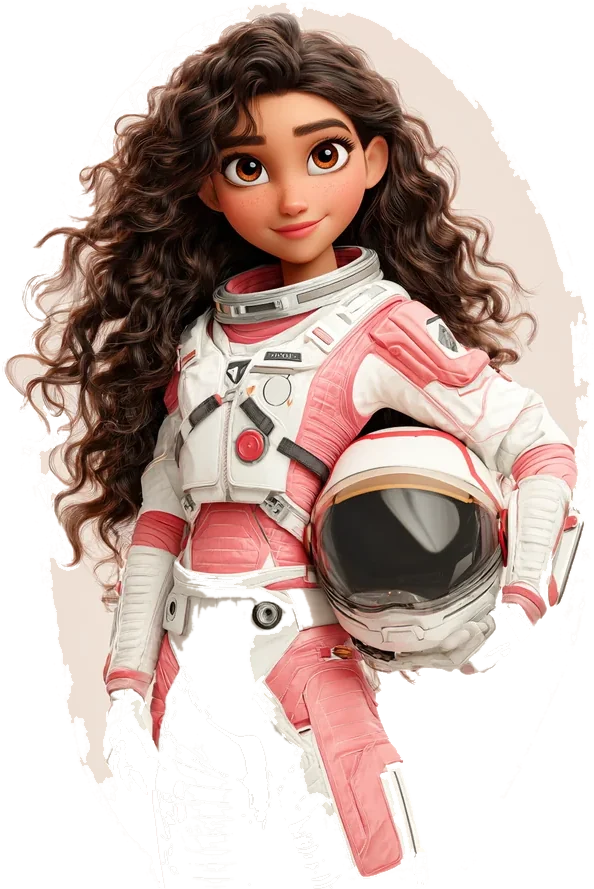
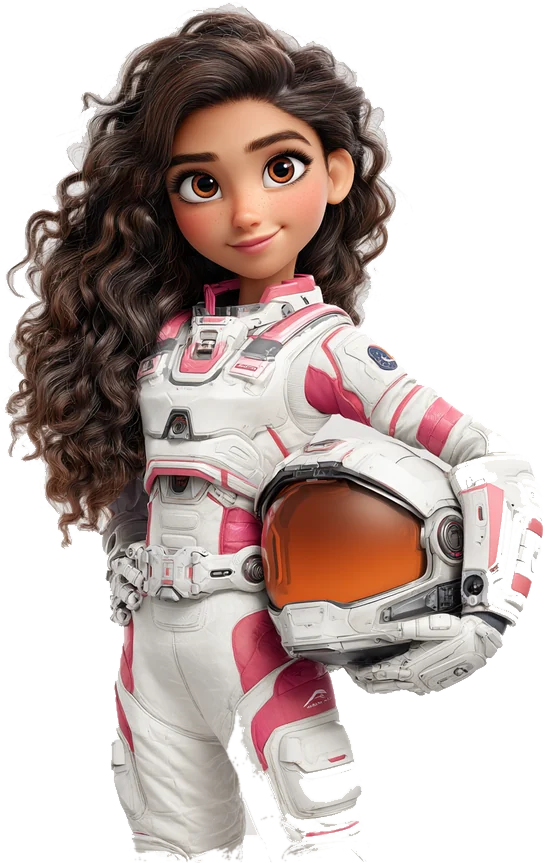
Faixa roxa, botoes translucidos, alto-falantes na Tamanho e Viagem arejada
A FAIXA ROXA E A ROLAGEM: a causa era a area segura do iPhone. No navegador
aqui ela vale zero; no aparelho dele sao ~59px em cima e 34 embaixo, e isso
empurrava o conteudo pra fora. Duas correcoes:
- A camada de fundo virou position:fixed — cobre a janela inteira, entao
  nao sobra mais faixa da cor do body quando a barra do navegador entra e sai
- Cartoes da home e cartao de parabens agora encolhem de verdade
  (min-height:0 nos itens da grade e overflow contido). Testado simulando
  a area segura: nenhuma das 10 telas rola

BOTOES DE MODO TRANSLUCIDOS: fundo branco a 62% com desfoque atras. O
cenario aparece e o texto continua legivel (ganhou sombra branca propria).

ALTO-FALANTES NA TAMANHO DE VERDADE: cada planeta fala nome e comparacao —
"Mercurio. Ele cabe 3 vezes dentro da Terra."

A VIAGEM DEIXOU DE AMONTOAR: escala de 0,78 pra 1,35 px por milhao de km,
nomes alternados em cima e embaixo, e o tempo encurtado pra "2 meses". Os
quatro de dentro continuam perto — porque estao mesmo — mas agora legiveis.

ASTRONAUTA COM FUNDO: a variacao usada tinha fundo bege que ficava preso
atras do capacete, e o corte por cor comia o traje branco dela. Medi as 4
variacoes e troquei pela 12, que tem fundo neutro e claro. Limiar baixado
de 52 pra 34 nas tres crescidas — recorte limpo sem comer roupa clara.

Astronauta virou o icone do cartao Sistema Solar.

diff --git a/css/style.css b/css/style.css
@@ -63,7 +63,9 @@ button{font:inherit;color:inherit;border:0;background:none;cursor:pointer;touch-
    Duas fotos empilhadas pra trocar com fade, e um véu por cima
    que garante que texto e botão continuem legíveis.
    =========================================================== */
-.fundo{position:absolute;inset:0;z-index:0;overflow:hidden;pointer-events:none}
+/* fixo na janela, não dentro do app: assim nunca sobra faixa da cor do body
+   quando a barra do navegador entra e sai no iPhone */
+.fundo{position:fixed;inset:0;z-index:0;overflow:hidden;pointer-events:none}
 .fundo__foto{
   position:absolute;inset:0;opacity:0;
   background-size:cover;background-position:center;
@@ -175,9 +177,9 @@ button{font:inherit;color:inherit;border:0;background:none;cursor:pointer;touch-
 .tile--words{background:linear-gradient(140deg,#5CE8BC,#12A87E 60%,#0B7A5C)}
 .tile--tic{background:linear-gradient(140deg,#FFC155,#F0761F)}
 .tile__art{
-  flex:1;min-height:0;width:100%;display:grid;place-items:center;padding:0;
+  flex:1;min-height:0;width:100%;display:grid;place-items:center;padding:0;overflow:hidden;
 }
-.tile__foto{max-height:100%;max-width:88%;width:auto;height:auto;object-fit:contain;
+.tile__foto{max-height:100%;max-width:86%;width:auto;height:auto;min-height:0;object-fit:contain;
   filter:drop-shadow(0 6px 14px rgba(0,0,0,.28))}
 
 
@@ -221,7 +223,7 @@ button{font:inherit;color:inherit;border:0;background:none;cursor:pointer;touch-
 }
 
 .star-linha{display:flex;align-items:center;gap:10px;margin:16px 0 18px}
-.tile-wrap,.mode-wrap{position:relative;display:flex}
+.tile-wrap,.mode-wrap{position:relative;display:flex;min-height:0;min-width:0}
 .tile-wrap>.tile,.mode-wrap>.mode{flex:1}
 
 /* ===========================================================
@@ -243,8 +245,11 @@ button{font:inherit;color:inherit;border:0;background:none;cursor:pointer;touch-
 .mode{
   display:flex;flex-direction:column;align-items:flex-start;gap:4px;
   min-height:132px;padding:20px 88px 20px 20px;border-radius:var(--radius);text-align:left;
-  background:#fff;color:var(--ink);box-shadow:var(--shadow);
+  background:rgba(255,255,255,.62);color:var(--ink);
+  border:1px solid rgba(255,255,255,.75);backdrop-filter:blur(9px) saturate(1.2);
+  box-shadow:0 8px 0 rgba(43,27,84,.10),0 14px 28px rgba(43,27,84,.14);
 }
+.mode strong,.mode small{text-shadow:0 1px 6px rgba(255,255,255,.95)}
 .screen--dark .mode{background:rgba(255,255,255,.10);color:#fff;box-shadow:0 8px 24px rgba(0,0,0,.35);backdrop-filter:blur(8px);border:1px solid rgba(255,255,255,.16)}
 .mode:active{transform:translateY(5px)}
 .mode__emoji{font-size:48px;line-height:1}
@@ -462,15 +467,16 @@ button{font:inherit;color:inherit;border:0;background:none;cursor:pointer;touch-
    =========================================================== */
 .screen--result{align-items:center;justify-content:center}
 .result-card{
-  width:100%;background:#fff;border-radius:34px;padding:28px 22px;text-align:center;
-  box-shadow:var(--shadow);display:flex;flex-direction:column;gap:12px;align-items:center;
+  width:100%;max-height:100%;background:#fff;border-radius:34px;padding:20px 20px;text-align:center;
+  box-shadow:var(--shadow);display:flex;flex-direction:column;gap:10px;align-items:center;
+  overflow:hidden;
 }
-.result-emoji{font-size:76px;animation:pop 1.6s ease-in-out infinite}
-.result-card h2{font-size:28px;font-weight:900;letter-spacing:-.5px}
+.result-emoji{font-size:56px;line-height:1;animation:pop 1.6s ease-in-out infinite}
+.result-card h2{font-size:25px;font-weight:900;letter-spacing:-.5px}
 .result-score{font-size:18px;color:var(--ink-soft)}
 .result-score b{color:var(--pink-dark);font-size:24px}
-.result-stars{font-size:30px;letter-spacing:4px;min-height:40px}
-#result-som{margin:2px auto 4px}
+.result-stars{font-size:26px;letter-spacing:2px;min-height:0;line-height:1}
+#result-som{margin:0 auto}
 .result-stars span{display:inline-block;animation:zoomIn .4s cubic-bezier(.2,.9,.3,1.6) backwards}
 .btn-big{
   width:100%;min-height:var(--tap);border-radius:22px;font-size:22px;font-weight:900;
@@ -620,11 +626,11 @@ button{font:inherit;color:inherit;border:0;background:none;cursor:pointer;touch-
 }
 
 .result-lara{
-  width:auto;height:min(30dvh,230px);object-fit:contain;margin-bottom:-14px;
+  width:auto;height:min(24dvh,190px);min-height:0;object-fit:contain;margin-bottom:-10px;
   filter:drop-shadow(0 12px 24px rgba(43,27,84,.30));
   animation:float 3.4s ease-in-out infinite;
 }
-.result-card.is-perfeito .result-lara{height:min(34dvh,260px)}
+.result-card.is-perfeito .result-lara{height:min(27dvh,215px)}
 .result-card.is-perfeito .result-emoji{display:none}
 
 
@@ -651,6 +657,7 @@ button{font:inherit;color:inherit;border:0;background:none;cursor:pointer;touch-
    planetas cai na mesma linha e a comparação de tamanho fica honesta */
 .tam-item__bola{flex:1;min-height:0;display:grid;place-items:center}
 .tam-item__bola img{display:block;height:auto;filter:drop-shadow(0 8px 22px rgba(0,0,0,.5))}
+.tam-item__linha{display:flex;align-items:center;gap:7px}
 .tam-item__nome{
   font-size:14px;font-weight:900;letter-spacing:-.2px;white-space:nowrap;
   background:rgba(13,18,52,.82);border:1px solid rgba(255,255,255,.16);
@@ -694,15 +701,21 @@ button{font:inherit;color:inherit;border:0;background:none;cursor:pointer;touch-
 }
 .viagem-parada{
   position:absolute;top:50%;transform:translate(-50%,-50%);
-  display:flex;flex-direction:column;align-items:center;gap:8px;
+  display:flex;flex-direction:column;align-items:center;gap:6px;
 }
+/* rótulo alternado: os planetas de dentro estão perto demais pra
+   caber tudo numa linha só de nomes */
+.viagem-parada--baixo{flex-direction:column-reverse}
+.viagem-parada--baixo .viagem-parada__tempo{order:-1}
 .viagem-parada img{display:block;width:auto;filter:drop-shadow(0 8px 20px rgba(0,0,0,.55))}
 .viagem-parada__nome{
-  font-size:14px;font-weight:900;white-space:nowrap;
-  background:rgba(13,18,52,.86);border:1px solid rgba(255,255,255,.18);
-  padding:5px 13px;border-radius:999px;
+  font-size:13px;font-weight:900;white-space:nowrap;
+  background:rgba(13,18,52,.9);border:1px solid rgba(255,255,255,.18);
+  padding:4px 10px;border-radius:999px;
 }
-.viagem-parada__tempo{font-size:11px;opacity:.85;white-space:nowrap;text-shadow:0 2px 6px rgba(0,0,0,.9)}
+.viagem-parada__tempo{font-size:11px;font-weight:800;opacity:.9;white-space:nowrap;
+  background:rgba(13,18,52,.72);padding:2px 8px;border-radius:999px;
+  text-shadow:0 2px 6px rgba(0,0,0,.9)}
 .viagem-sol{
   position:absolute;top:50%;left:0;transform:translate(-58%,-50%);
   width:190px;height:190px;border-radius:50%;
@@ -744,7 +757,7 @@ button{font:inherit;color:inherit;border:0;background:none;cursor:pointer;touch-
   filter:drop-shadow(0 2px 4px rgba(120,80,0,.35))}
 .estrela-icone--grande{width:34px;height:34px;vertical-align:-8px}
 .bar__stars{display:inline-flex;align-items:center;gap:5px}
-.result-stars img{width:34px;height:34px;object-fit:contain;margin:0 1px;
+.result-stars img{width:27px;height:27px;object-fit:contain;margin:0 1px;
   animation:zoomIn .4s cubic-bezier(.2,.9,.3,1.6) backwards}
 .result-colecao{font-size:14px;font-weight:800;color:var(--purple);
   background:#F2ECFF;padding:8px 16px;border-radius:999px}

diff --git a/js/app.js b/js/app.js
@@ -281,14 +281,26 @@ var App = (function () {
                  : vezes <= 0.62 ? ('cabe ' + Math.round(1 / vezes) + '× na Terra')
                  : 'quase igual à Terra';
 
+      var fala = astro.nome + '. ' +
+        (vezes >= 1.6 ? ('É ' + vezes.toFixed(1).replace('.', ' vírgula ') + ' vezes maior que a Terra.')
+       : vezes <= 0.62 ? ('Ele cabe ' + Math.round(1 / vezes) + ' vezes dentro da Terra.')
+       : 'É quase do tamanho da Terra.');
+
       var item = document.createElement('div');
       item.className = 'tam-item';
       item.innerHTML =
         '<span class="tam-item__bola"><img src="img/planeta-' + id + '.webp" alt="' + astro.nome + '"' +
           ' style="width:' + quadroPx + 'px" draggable="false"></span>' +
-        '<span class="tam-item__nome">' + astro.nome + '</span>' +
+        '<span class="tam-item__linha">' +
+          '<span class="tam-item__nome">' + astro.nome + '</span>' +
+          '<button class="som-btn som-btn--nano" type="button" aria-label="Ouvir ' + astro.nome + '"' +
+            ' data-falar="' + fala + '">🔊</button>' +
+        '</span>' +
         '<span class="tam-item__medida">' + medida + '</span>';
-      item.addEventListener('click', function () { abrirFicha(astro); });
+      item.addEventListener('click', function (e) {
+        if (e.target.closest('[data-falar]')) return;
+        abrirFicha(astro);
+      });
       trilha.appendChild(item);
     });
     trilha.scrollLeft = 0;
@@ -302,25 +314,30 @@ var App = (function () {
      ========================================================= */
   function montarViagem() {
     var trilha = $('#viagem-scroll');
-    var PX_POR_MILHAO = 0.78;                 /* Netuno cai a ~3.500px, umas 9 telas */
-    var margemFinal = 150;
-    var fim = Espaco.DISTANCIAS.netuno.milhoes * PX_POR_MILHAO + margemFinal;
+    /* escala maior e um empurrão inicial: os quatro de dentro ficam juntos de
+       verdade, mas amontoados na tela viram bagunça em vez de informação */
+    var PX_POR_MILHAO = 1.35;
+    var SAIDA = 170;                          /* espaço pro Sol não engolir Mercúrio */
+    var margemFinal = 260;
+    var fim = SAIDA + Espaco.DISTANCIAS.netuno.milhoes * PX_POR_MILHAO + margemFinal;
 
     var pista = document.createElement('div');
     pista.className = 'viagem-pista';
     pista.style.width = Math.round(fim) + 'px';
     pista.innerHTML = '<div class="viagem-sol"></div><span class="viagem-sol__nome">O Sol</span>';
 
-    ['mercurio','venus','terra','marte','jupiter','saturno','urano','netuno'].forEach(function (id) {
+    ['mercurio','venus','terra','marte','jupiter','saturno','urano','netuno'].forEach(function (id, i) {
       var astro = Espaco.porId(id);
       var d = Espaco.DISTANCIAS[id];
-      var tam = id === 'jupiter' || id === 'saturno' ? 84 : (id === 'urano' || id === 'netuno' ? 70 : 58);
+      var tam = id === 'jupiter' || id === 'saturno' ? 82 : (id === 'urano' || id === 'netuno' ? 66 : 42);
       var real = Espaco.REAIS[id];
       var quadro = Math.round(tam / real.bola);
 
       var parada = document.createElement('div');
-      parada.className = 'viagem-parada';
-      parada.style.left = Math.round(d.milhoes * PX_POR_MILHAO) + 'px';
+      /* nome alternado em cima e embaixo: com os de dentro tão perto,
+         os rótulos se atropelariam numa linha só */
+      parada.className = 'viagem-parada' + (i % 2 ? ' viagem-parada--baixo' : '');
+      parada.style.left = Math.round(SAIDA + d.milhoes * PX_POR_MILHAO) + 'px';
       parada.innerHTML =
         '<img src="img/planeta-' + id + '.webp" alt="' + astro.nome + '" style="width:' + quadro + 'px" draggable="false">' +
         '<span class="viagem-parada__nome">' + astro.nome + '</span>' +
@@ -332,7 +349,7 @@ var App = (function () {
     /* a chegada: ela esperando em Netuno, no fim da viagem */
     var chegada = document.createElement('div');
     chegada.className = 'viagem-chegada';
-    chegada.style.left = Math.round(Espaco.DISTANCIAS.netuno.milhoes * PX_POR_MILHAO + 180) + 'px';
+    chegada.style.left = Math.round(SAIDA + Espaco.DISTANCIAS.netuno.milhoes * PX_POR_MILHAO + 190) + 'px';
     chegada.innerHTML = '<img src="img/lara-espaco.webp" alt="">' +
                         '<span class="viagem-parada__nome">Chegamos!</span>';
     pista.appendChild(chegada);
@@ -355,7 +372,7 @@ var App = (function () {
     var ultima = 'Saindo do Sol';
     var ordem = ['mercurio','venus','terra','marte','jupiter','saturno','urano','netuno'];
     for (var i = 0; i < ordem.length; i++) {
-      var x = Espaco.DISTANCIAS[ordem[i]].milhoes * 0.78;
+      var x = 170 + Espaco.DISTANCIAS[ordem[i]].milhoes * 1.35;
       if (frente >= x) ultima = 'Passando por ' + Espaco.porId(ordem[i]).nome;
     }
     if (andado > 0.985) ultima = 'Chegou em Netuno! 🎉';

diff --git a/js/data-espaco.js b/js/data-espaco.js
@@ -138,14 +138,14 @@ var Espaco = (function () {
   /* Distância média até o Sol, em milhões de km, e quanto tempo levaria
      num foguete rápido (40 mil km/h) indo em linha reta. */
   var DISTANCIAS = {
-    mercurio: { milhoes:  58, viagem: '2 meses de foguete' },
-    venus:    { milhoes: 108, viagem: '3 meses de foguete' },
-    terra:    { milhoes: 150, viagem: '5 meses de foguete' },
-    marte:    { milhoes: 228, viagem: '8 meses de foguete' },
-    jupiter:  { milhoes: 778, viagem: '2 anos de foguete'  },
-    saturno:  { milhoes:1430, viagem: '4 anos de foguete'  },
-    urano:    { milhoes:2870, viagem: '8 anos de foguete'  },
-    netuno:   { milhoes:4500, viagem: '13 anos de foguete' }
+    mercurio: { milhoes:  58, viagem: '2 meses' },
+    venus:    { milhoes: 108, viagem: '3 meses' },
+    terra:    { milhoes: 150, viagem: '5 meses' },
+    marte:    { milhoes: 228, viagem: '8 meses' },
+    jupiter:  { milhoes: 778, viagem: '2 anos'  },
+    saturno:  { milhoes:1430, viagem: '4 anos'  },
+    urano:    { milhoes:2870, viagem: '8 anos'  },
+    netuno:   { milhoes:4500, viagem: '13 anos' }
   };
 
   function comArtigo(a) { return (a.artigo ? a.artigo + ' ' : '') + a.nome; }

diff --git a/index.html b/index.html
@@ -75,7 +75,7 @@
 
       <div class="tile-wrap">
         <button class="tile tile--space" data-go="espaco-menu" type="button">
-          <span class="tile__art"><img src="img/icone-espaco.webp" alt="" class="tile__foto"></span>
+          <span class="tile__art"><img src="img/lara-astronauta.webp" alt="" class="tile__foto"></span>
           <strong>Sistema Solar</strong>
         </button>
         <button class="som-btn som-btn--nano som-flutuante" type="button" aria-label="Ouvir Sistema Solar"

diff --git a/sw.js b/sw.js
@@ -1,7 +1,7 @@
 /* Service worker — o app abre offline e se atualiza sozinho.
    Estratégia: entrega o que está em cache na hora (rápido pra criança)
    e, em paralelo, baixa a versão nova pro próximo abrir. */
-var CACHE = 'mundo-da-lara-v15';
+var CACHE = 'mundo-da-lara-v16';
 var ARQUIVOS = [
   './',
   'index.html',
